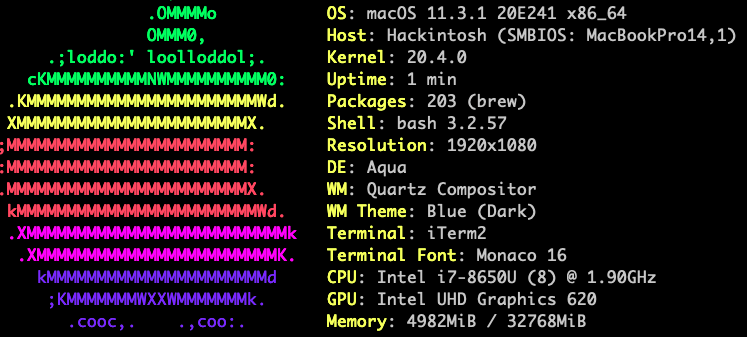
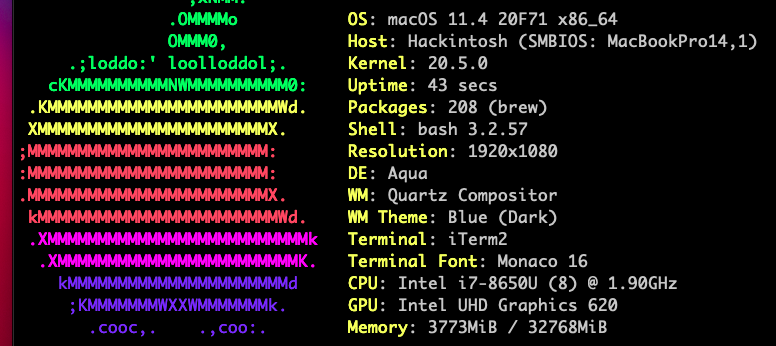
macOS 11.4 (20F71)

Changed region(s): [[0.0, 0.0, 0.9853, 1.0]]

diff --git a/README.md b/README.md
@@ -14,7 +14,7 @@ Working (compared to other setup I've found):
 
 Tested with:
 * T480 i7-8650U FHD, 32GB RAM, NVME, nvidia MX150 deactivated in DSDT/SSDT
-* macOS 11.3.1 (20E241)
+* macOS 11.4 (20F71)
 * Wireless DW1560, NGFF Broadcom BCM4352 802.11ac with PCID [14e4:43b1]
 * Wireless DW1820a : use config.DW1820a.plist
 * CPU i7-8650U : use https://github.com/stevezhengshiqi/one-key-cpufriend for correct power-state/energy saving
